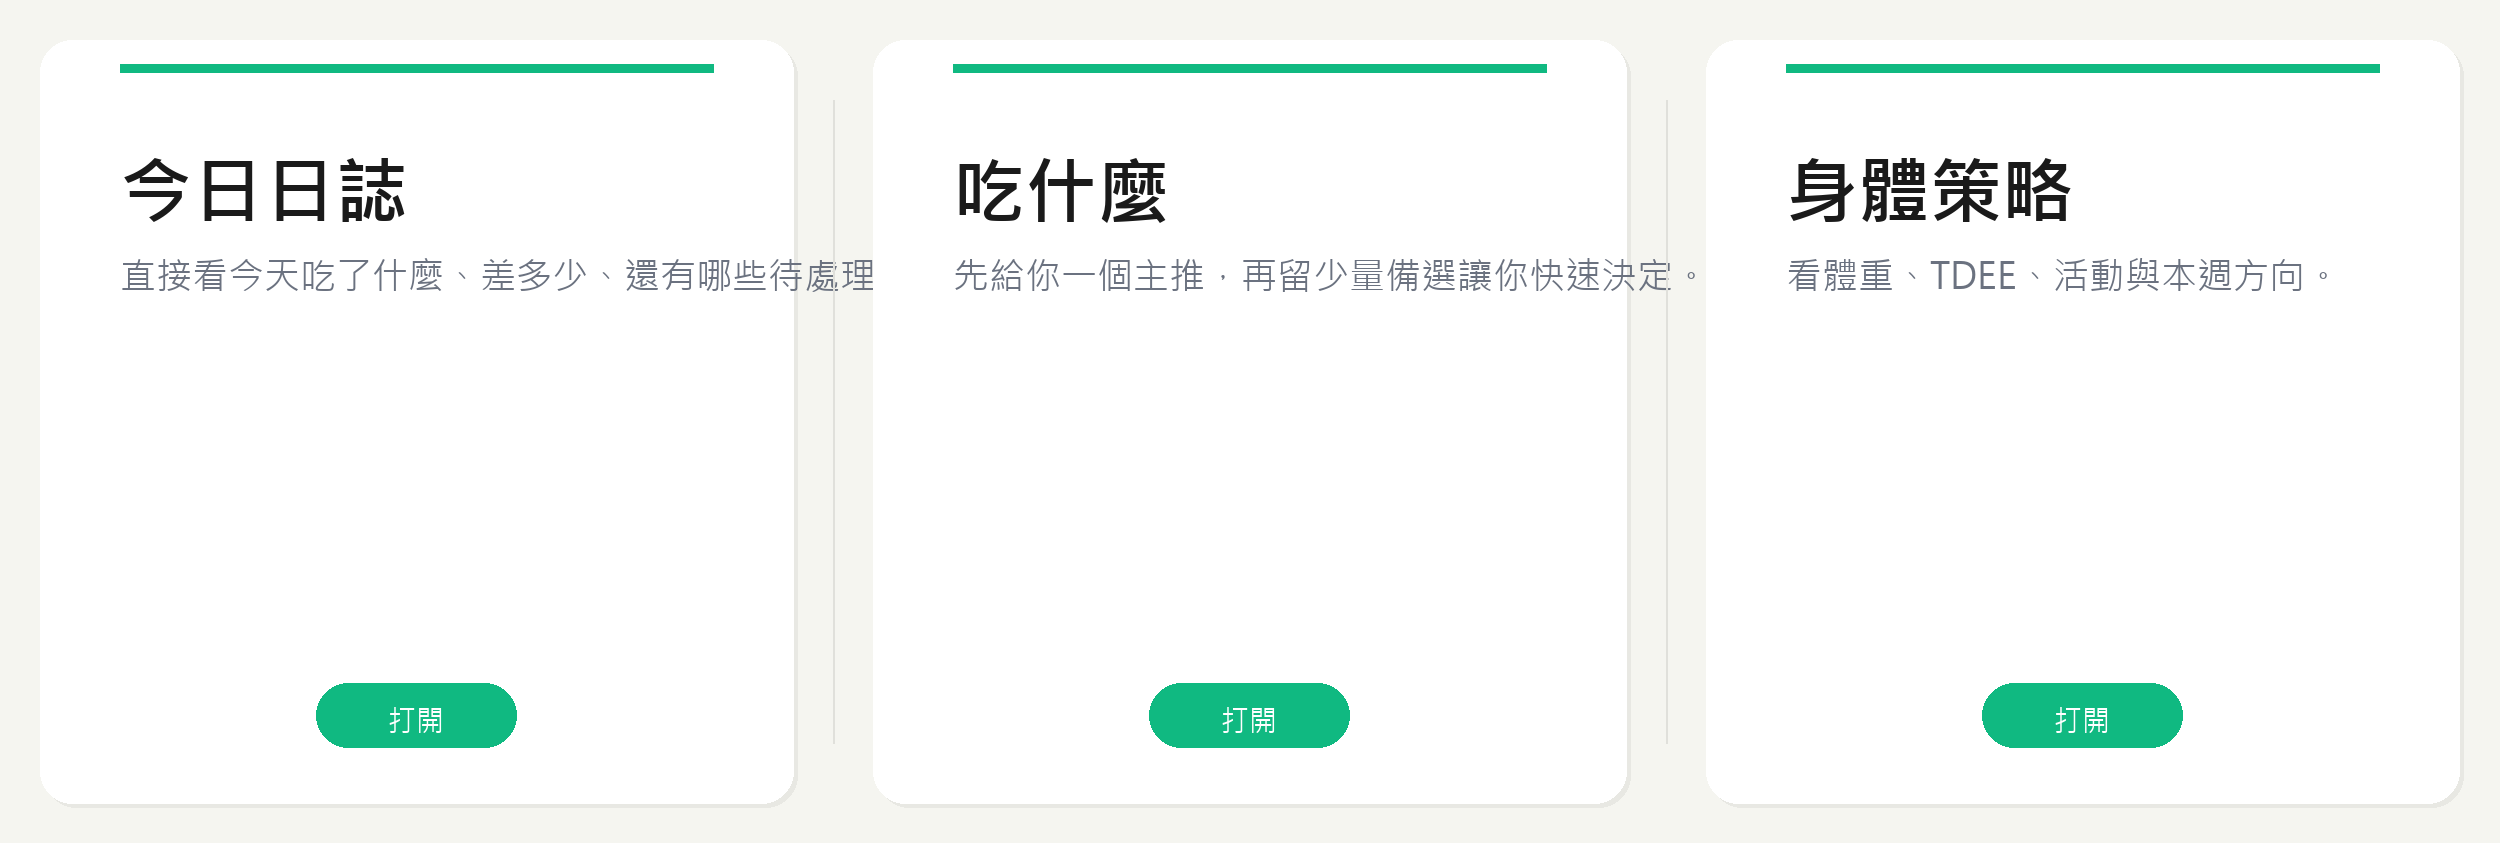
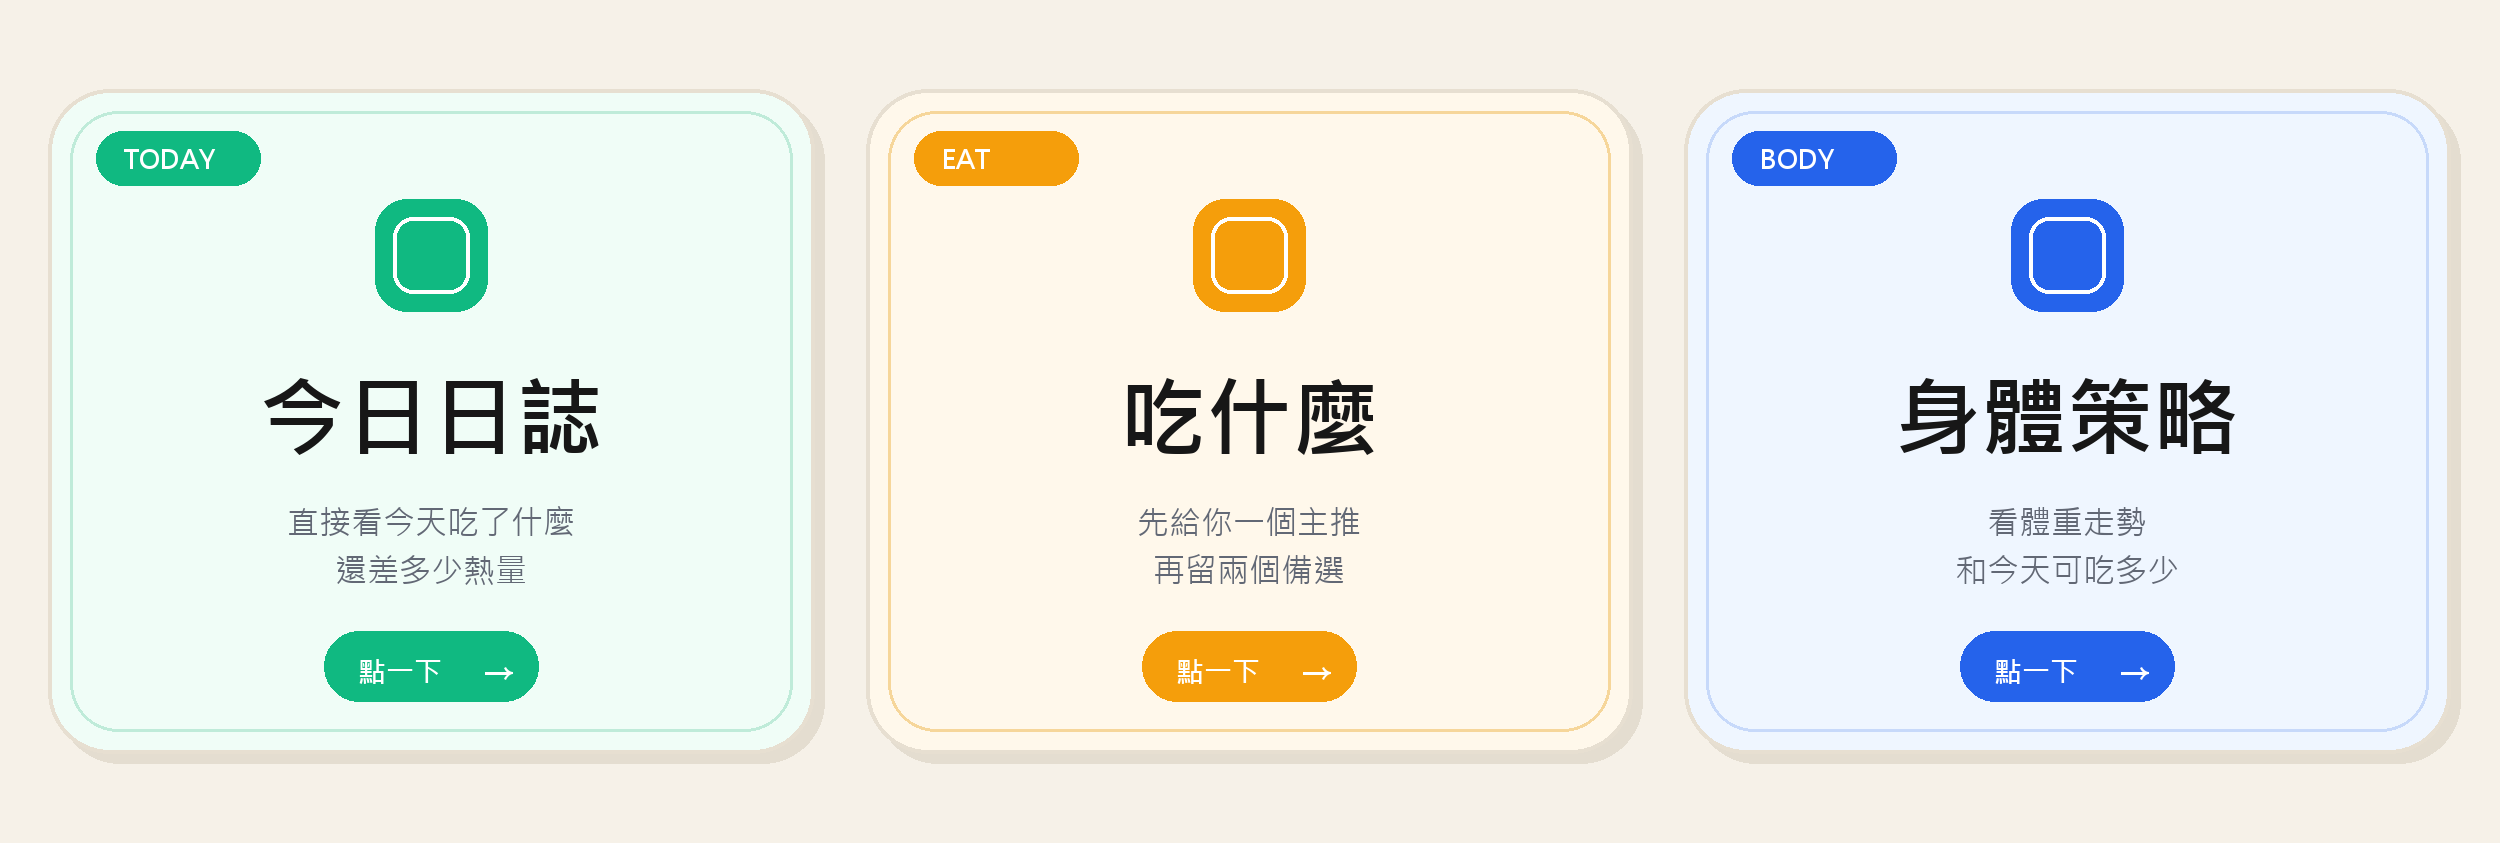
Refine LINE rich menu buttons

diff --git a/scripts/create_line_rich_menu.py b/scripts/create_line_rich_menu.py
@@ -38,65 +38,129 @@ def load_font(size: int, bold: bool = False) -> ImageFont.FreeTypeFont | ImageFo
 
 def create_image(output_path: Path) -> None:
     width, height = 2500, 843
-    bg_color = "#F5F5F0"
-    card_color = "#FFFFFF"
-    accent = "#10B981"
-    text_primary = "#1A1A1A"
-    text_muted = "#6B7280"
-    divider = "#E0E0DB"
-
-    image = Image.new("RGB", (width, height), bg_color)
+    image = Image.new("RGB", (width, height), "#F6F1E8")
     draw = ImageDraw.Draw(image)
 
-    title_font = load_font(72, bold=True)
-    subtitle_font = load_font(36)
-    label_font = load_font(28)
+    eyebrow_font = load_font(26, bold=True)
+    title_font = load_font(86, bold=True)
+    subtitle_font = load_font(32)
+    cta_font = load_font(28, bold=True)
+    arrow_font = load_font(34, bold=True)
 
     sections = [
-        ("今日日誌", "直接看今天吃了什麼、差多少、還有哪些待處理。"),
-        ("吃什麼", "先給你一個主推，再留少量備選讓你快速決定。"),
-        ("身體策略", "看體重、TDEE、活動與本週方向。"),
+        {
+            "eyebrow": "TODAY",
+            "title": "今日日誌",
+            "subtitle": "直接看今天吃了什麼\n還差多少熱量",
+            "accent": "#10B981",
+            "fill": "#F0FDF7",
+            "outline": "#BFEBD9",
+        },
+        {
+            "eyebrow": "EAT",
+            "title": "吃什麼",
+            "subtitle": "先給你一個主推\n再留兩個備選",
+            "accent": "#F59E0B",
+            "fill": "#FFF8EB",
+            "outline": "#F6D69A",
+        },
+        {
+            "eyebrow": "BODY",
+            "title": "身體策略",
+            "subtitle": "看體重走勢\n和今天可吃多少",
+            "accent": "#2563EB",
+            "fill": "#EFF6FF",
+            "outline": "#C7D9FA",
+        },
     ]
 
-    panel_width = width // 3
-    card_margin_x = 40
-    card_margin_y = 40
-    card_radius = 32
+    gap = 52
+    outer_margin = 48
+    button_width = (width - outer_margin * 2 - gap * 2) // 3
+    button_height = 664
+    top = (height - button_height) // 2
+    radius = 62
 
-    for index, (title, subtitle) in enumerate(sections):
-        x0 = index * panel_width
-        cx0 = x0 + card_margin_x
-        cy0 = card_margin_y
-        cx1 = x0 + panel_width - card_margin_x
-        cy1 = height - card_margin_y
+    for index, section in enumerate(sections):
+        x0 = outer_margin + index * (button_width + gap)
+        y0 = top
+        x1 = x0 + button_width
+        y1 = y0 + button_height
 
-        shadow_offset = 4
         draw.rounded_rectangle(
-            (cx0 + shadow_offset, cy0 + shadow_offset, cx1 + shadow_offset, cy1 + shadow_offset),
-            radius=card_radius,
-            fill="#E8E8E3",
+            (x0 + 10, y0 + 10, x1 + 10, y1 + 10),
+            radius=radius,
+            fill="#E4DDD0",
         )
-        draw.rounded_rectangle((cx0, cy0, cx1, cy1), radius=card_radius, fill=card_color)
-        draw.rectangle((cx0 + 80, cy0 + 24, cx1 - 80, cy0 + 32), fill=accent)
+        draw.rounded_rectangle(
+            (x0, y0, x1, y1),
+            radius=radius,
+            fill=section["fill"],
+            outline="#E7DFD1",
+            width=4,
+        )
+        draw.rounded_rectangle(
+            (x0 + 22, y0 + 22, x1 - 22, y1 - 22),
+            radius=48,
+            outline=section["outline"],
+            width=3,
+        )
 
-        title_y = cy0 + 100
-        draw.text((cx0 + 80, title_y), title, font=title_font, fill=text_primary)
-        subtitle_y = title_y + 110
-        draw.text((cx0 + 80, subtitle_y), subtitle, font=subtitle_font, fill=text_muted)
+        badge_x = x0 + 48
+        badge_y = y0 + 42
+        badge_w = 164
+        badge_h = 54
+        draw.rounded_rectangle(
+            (badge_x, badge_y, badge_x + badge_w, badge_y + badge_h),
+            radius=badge_h // 2,
+            fill=section["accent"],
+        )
+        draw.text((badge_x + 28, badge_y + 10), section["eyebrow"], font=eyebrow_font, fill="#FFFFFF")
 
-        btn_w = 200
-        btn_h = 64
-        btn_x = cx0 + (cx1 - cx0 - btn_w) // 2
-        btn_y = cy1 - 120
-        draw.rounded_rectangle((btn_x, btn_y, btn_x + btn_w, btn_y + btn_h), radius=btn_h // 2, fill=accent)
-        bbox = draw.textbbox((0, 0), "打開", font=label_font)
-        tw = bbox[2] - bbox[0]
-        th = bbox[3] - bbox[1]
-        draw.text((btn_x + (btn_w - tw) // 2, btn_y + (btn_h - th) // 2 - 2), "打開", font=label_font, fill="#FFFFFF")
+        icon_size = 112
+        icon_x = x0 + (button_width - icon_size) // 2
+        icon_y = y0 + 110
+        draw.rounded_rectangle(
+            (icon_x, icon_y, icon_x + icon_size, icon_y + icon_size),
+            radius=32,
+            fill=section["accent"],
+        )
+        draw.rounded_rectangle(
+            (icon_x + 18, icon_y + 18, icon_x + icon_size - 18, icon_y + icon_size - 18),
+            radius=20,
+            outline="#FFFFFF",
+            width=4,
+        )
 
-    for i in range(1, 3):
-        x = i * panel_width
-        draw.line((x, card_margin_y + 60, x, height - card_margin_y - 60), fill=divider, width=2)
+        title_bbox = draw.textbbox((0, 0), section["title"], font=title_font)
+        title_w = title_bbox[2] - title_bbox[0]
+        title_x = x0 + (button_width - title_w) // 2
+        title_y = y0 + 268
+        draw.text((title_x, title_y), section["title"], font=title_font, fill="#171717")
+
+        subtitle_y = title_y + 142
+        for line in section["subtitle"].split("\n"):
+            line_bbox = draw.textbbox((0, 0), line, font=subtitle_font)
+            line_w = line_bbox[2] - line_bbox[0]
+            line_x = x0 + (button_width - line_w) // 2
+            draw.text((line_x, subtitle_y), line, font=subtitle_font, fill="#626875")
+            subtitle_y += 48
+
+        pill_w = 214
+        pill_h = 70
+        pill_x = x0 + (button_width - pill_w) // 2
+        pill_y = y1 - 122
+        draw.rounded_rectangle(
+            (pill_x, pill_y, pill_x + pill_w, pill_y + pill_h),
+            radius=pill_h // 2,
+            fill=section["accent"],
+        )
+        cta_text = "點一下"
+        cta_bbox = draw.textbbox((0, 0), cta_text, font=cta_font)
+        cta_w = cta_bbox[2] - cta_bbox[0]
+        cta_h = cta_bbox[3] - cta_bbox[1]
+        draw.text((pill_x + 34, pill_y + (pill_h - cta_h) // 2 - 2), cta_text, font=cta_font, fill="#FFFFFF")
+        draw.text((pill_x + pill_w - 56, pill_y + 16), "→", font=arrow_font, fill="#FFFFFF")
 
     output_path.parent.mkdir(parents=True, exist_ok=True)
     image.save(output_path, format="PNG")
@@ -106,7 +170,7 @@ def create_rich_menu(access_token: str, liff_id: str) -> str:
     rich_menu = {
         "size": {"width": 2500, "height": 843},
         "selected": True,
-        "name": "fat_loss_os_light_v3",
+        "name": "fat_loss_os_light_v4",
         "chatBarText": "Fat Loss OS",
         "areas": [
             {
